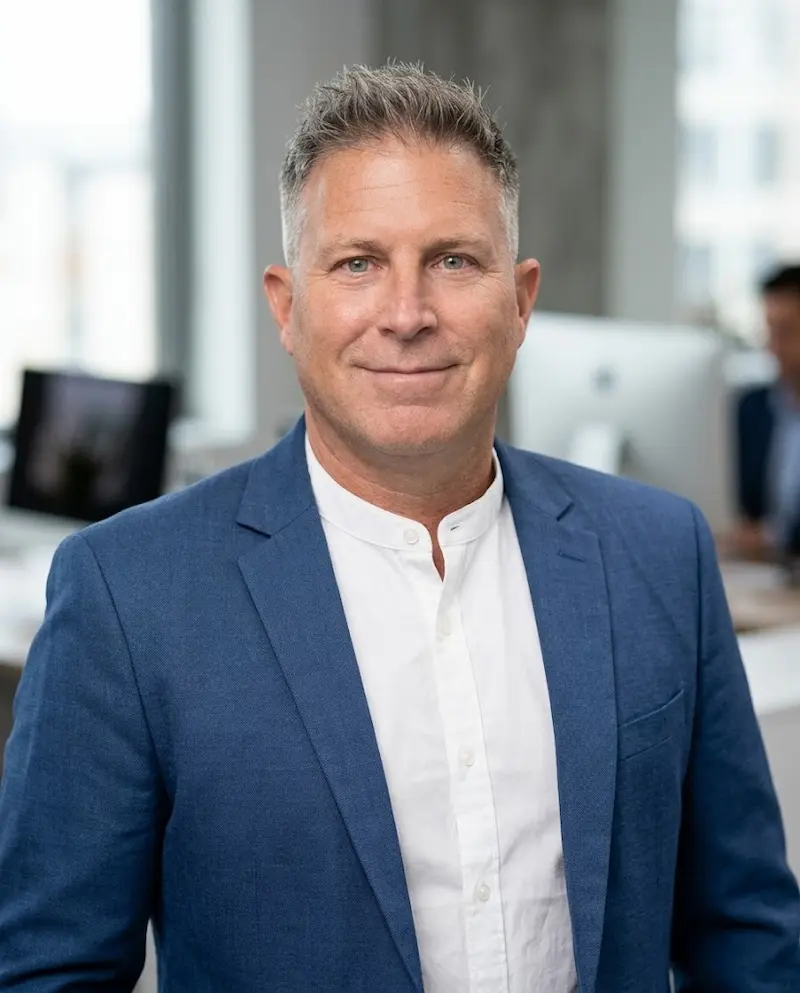
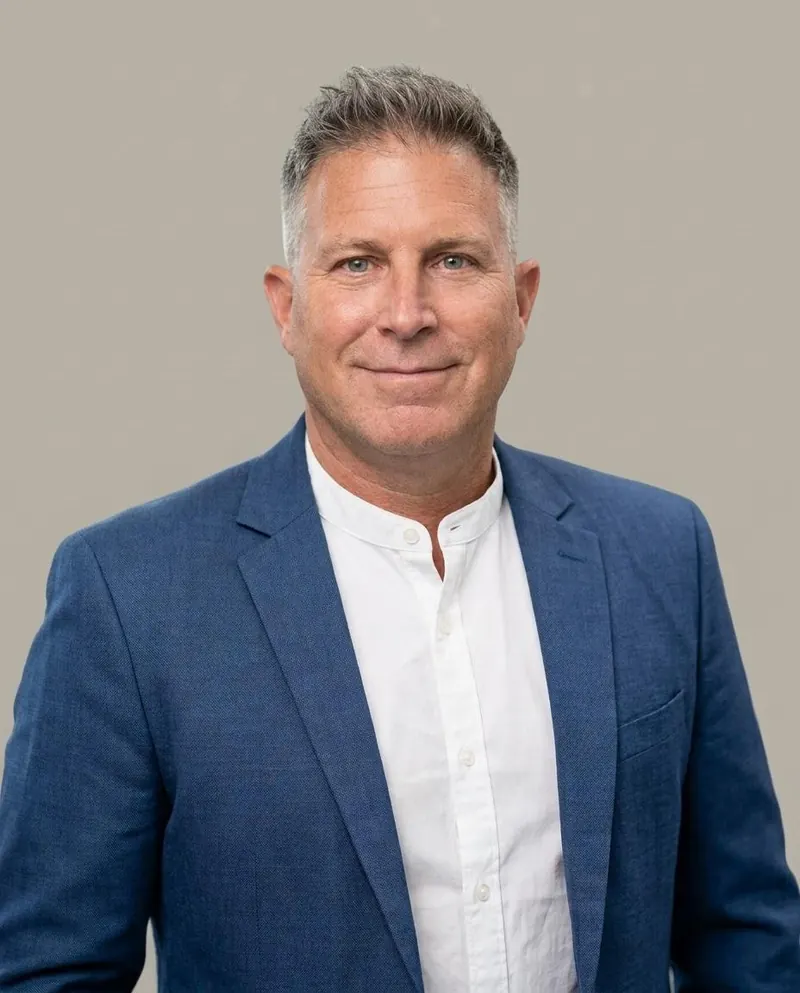
v: 28 higiene de medios: retrato y QR optimizados, alts y metadatos + arreglos de idioma y menú

diff --git a/language.js b/language.js
@@ -27,10 +27,25 @@
     ["Navegación principal", "Navegació principal", "Main navigation"],
     ["Filtrar proyectos", "Filtra els projectes", "Filter projects"],
     ["Datos de contacto", "Dades de contacte", "Contact details"],
-    ["Presentación", "Presentació", "Introduction"],
+    ["Presentación", "Presentació", "Presentation"],
     ["Presentación · Gabriel Vidal Badia", "Presentació · Gabriel Vidal Badia", "Presentation · Gabriel Vidal Badia"],
     ["Presentación de Gabriel Vidal Badia · Portfolio personal.", "Presentació de Gabriel Vidal Badia · Portafolis personal.", "Presentation by Gabriel Vidal Badia · Personal portfolio."],
     ["Presentación en vivo", "Presentació en directe", "Live presentation"],
+    ["Noticias IA", "Notícies IA", "AI News"],
+    ["Noticias IA · Gabriel Vidal Badia", "Notícies IA · Gabriel Vidal Badia", "AI News · Gabriel Vidal Badia"],
+    ["Noticias de inteligencia artificial seleccionadas por Gabriel Vidal Badia.", "Notícies d'intel·ligència artificial seleccionades per Gabriel Vidal Badia.", "Artificial intelligence news selected by Gabriel Vidal Badia."],
+    ["Actualizado a diario", "Actualitzat cada dia", "Updated daily"],
+    ["Noticias de", "Notícies sobre", "News about"],
+    ["Inteligencia Artificial", "Intel·ligència Artificial", "Artificial Intelligence"],
+    ["Los nombres que más están moviendo el sector de la IA esta semana, ordenados por momentum. Fuente: GNews.", "Els noms que més estan movent el sector de la IA esta setmana, ordenats per impuls. Font: GNews.", "The names moving the AI sector the most this week, ranked by momentum. Source: GNews."],
+    ["¿Quieres ver", "Vols veure", "Want to see"],
+    ["mi perfil completo", "el meu perfil complet", "my full profile"],
+    ["Vuelve al portfolio para ver formación, experiencia y proyectos.", "Torna al portafolis per veure formació, experiència i projectes.", "Go back to the portfolio to see my education, experience and projects."],
+    ["Escalando en roca: la afición que me enseñó a resolver problemas paso a paso.", "Escalant en roca: l'afició que em va ensenyar a resoldre problemes pas a pas.", "Rock climbing: the hobby that taught me to solve problems step by step."],
+    ["Gabriel escalando una vía en roca caliza, con el arnés cargado de cintas exprés y el cielo azul de fondo", "Gabriel escalant una via en roca calcària, amb l'arnés carregat de cintes exprés i el cel blau de fons", "Gabriel climbing a limestone route, harness loaded with quickdraws, with a blue sky behind him"],
+    ["Gabriel Vidal Badia sonriendo, con americana azul y camisa blanca, sobre fondo gris claro", "Gabriel Vidal Badia somrient, amb americana blava i camisa blanca, sobre fons gris clar", "Gabriel Vidal Badia smiling, wearing a blue blazer and a white shirt, against a light gray background"],
+    ["Código QR que lleva a este portfolio", "Codi QR que du a aquest portafolis", "QR code that leads to this portfolio"],
+    ["📱 Llévate la web al móvil", "📱 Emporta't la web al mòbil", "📱 Take the site on your phone"],
     ["Escanea y entra en", "Escaneja i entra al", "Scan to open"],
     ["mi portfolio", "meu portafolis", "my portfolio"],
     ["Apunta con la cámara del móvil al código QR. Te llevará directo a la web personal con la que estoy construyendo mi marca como desarrollador.", "Apunta amb la càmera del mòbil al codi QR. Et portarà directament al web personal amb què estic construint la meua marca com a desenvolupador.", "Point your phone camera at the QR code. It will take you straight to the personal website where I'm building my brand as a developer."],

diff --git a/script.js b/script.js
@@ -959,31 +959,52 @@ if (toTop) {
   const term = document.getElementById("typingTerminal");
   if (!term) return;
 
-  const lines = [
-    '<span class="term-prompt">$</span> while (<span class="term-var">no_llegue_a_la_cima</span>) {',
-    '  <span class="term-fn">resolver_problema</span>();',
-    '  <span class="term-fn">aprender</span>();',
-    '  <span class="term-fn">subir</span>();',
-    '}',
-    '<span class="term-ok">✓ Programa ejecutado. Subiendo...</span>',
-    '<span class="term-prompt">$</span> <span class="term-cursor">▊</span>'
-  ];
+  /* Identificadores y mensaje del "programa" en cada idioma.
+     "while" es palabra reservada del lenguaje, así que no se traduce. */
+  const code = {
+    es:  { cond: "no_llegue_a_la_cima", solve: "resolver_problema", learn: "aprender", climb: "subir",  ok: "✓ Programa ejecutado. Subiendo..." },
+    val: { cond: "no_arribe_al_cim",    solve: "resoldre_problema", learn: "aprendre", climb: "pujar",  ok: "✓ Programa executat. Pujant..." },
+    en:  { cond: "not_at_the_summit",   solve: "solve_problem",     learn: "learn",    climb: "climb",  ok: "✓ Program executed. Climbing..." }
+  };
+
+  const currentLang = () => {
+    const l = document.documentElement.lang;
+    return l === "en" ? "en" : l === "ca-valencia" ? "val" : "es";
+  };
+
+  const buildLines = (lang) => {
+    const t = code[lang] || code.es;
+    return [
+      '<span class="term-prompt">$</span> while (<span class="term-var">' + t.cond + '</span>) {',
+      '  <span class="term-fn">' + t.solve + '</span>();',
+      '  <span class="term-fn">' + t.learn + '</span>();',
+      '  <span class="term-fn">' + t.climb + '</span>();',
+      '}',
+      '<span class="term-ok">' + t.ok + '</span>',
+      '<span class="term-prompt">$</span> <span class="term-cursor">▊</span>'
+    ];
+  };
 
   const reduceMotion = window.matchMedia("(prefers-reduced-motion: reduce)").matches;
-  term.innerHTML = lines.join("\n");
-  if (reduceMotion) return;
+  let timer = null;
+  let started = false;
+  let textNodes = [];
 
-  const walker = document.createTreeWalker(term, NodeFilter.SHOW_TEXT);
-  const textNodes = [];
-  let node;
-  while ((node = walker.nextNode())) {
-    textNodes.push({ node, text: node.textContent });
-    node.textContent = "";
-  }
+  const render = (lang) => { term.innerHTML = buildLines(lang).join("\n"); };
+
+  /* Prepara los nodos de texto vacíos para ir escribiéndolos letra a letra */
+  const prepareTyping = () => {
+    const walker = document.createTreeWalker(term, NodeFilter.SHOW_TEXT);
+    textNodes = [];
+    let node;
+    while ((node = walker.nextNode())) {
+      textNodes.push({ node, text: node.textContent });
+      node.textContent = "";
+    }
+  };
 
   let nodeIndex = 0;
   let charIndex = 0;
-  let started = false;
 
   function type() {
     if (nodeIndex >= textNodes.length) return;
@@ -994,7 +1015,7 @@ if (toTop) {
       nodeIndex++;
       charIndex = 0;
     }
-    window.setTimeout(type, 32);
+    timer = window.setTimeout(type, 32);
   }
 
   function start() {
@@ -1002,6 +1023,18 @@ if (toTop) {
     started = true;
     type();
   }
+
+  render(currentLang());
+  if (!reduceMotion) prepareTyping();
+
+  /* Al cambiar de idioma se muestra el programa ya completo en el nuevo idioma */
+  document.addEventListener("portfolio:languagechange", (event) => {
+    window.clearTimeout(timer);
+    started = true;
+    render((event.detail && event.detail.language) || currentLang());
+  });
+
+  if (reduceMotion) return;
 
   if ("IntersectionObserver" in window) {
     const observer = new IntersectionObserver((entries) => {

diff --git a/index.html b/index.html
@@ -27,9 +27,9 @@
   <meta property="og:type" content="profile" />
   <meta property="og:title" content="Gabriel Vidal Badia · Desarrollador" />
   <meta property="og:description" content="Estudiante de 1º DAM. Técnico Superior en Sistemas de Telecomunicación, CFGM SMR y certificaciones Cisco." />
-  <meta property="og:url" content="https://gabrielvidal.dev/" />
+  <meta property="og:url" content="https://gabi37smx.github.io/mi-web/" />
   <meta property="og:locale" content="es_ES" />
-  <meta property="og:image" content="https://gabrielvidal.dev/image/gabriel.webp" />
+  <meta property="og:image" content="https://gabi37smx.github.io/mi-web/image/gabriel.webp" />
 
   <meta name="twitter:card" content="summary_large_image" />
   <meta name="twitter:title" content="Gabriel Vidal Badia · Desarrollador" />
@@ -42,8 +42,8 @@
     "name": "Gabriel Vidal Badia",
     "jobTitle": "Desarrollador en formación",
     "description": "Estudiante de 1º DAM en el IES Simarro. Técnico Superior en Sistemas de Telecomunicación e Informáticos, CFGM en Sistemas Microinformáticos y Redes, con certificaciones Cisco en redes y ciberseguridad.",
-    "url": "https://gabrielvidal.dev",
-    "image": "https://gabrielvidal.dev/image/gabriel.webp",
+    "url": "https://gabi37smx.github.io/mi-web/",
+    "image": "https://gabi37smx.github.io/mi-web/image/gabriel.webp",
     "address": {
       "@type": "PostalAddress",
       "addressLocality": "Xàtiva",
@@ -81,7 +81,6 @@
   <link rel="preconnect" href="https://fonts.gstatic.com" crossorigin />
   <link href="https://fonts.googleapis.com/css2?family=Space+Grotesk:wght@400;700&family=Inter:wght@400;600&family=JetBrains+Mono:wght@400&display=swap" rel="stylesheet" />
 
-  <link rel="preload" as="image" href="image/gabriel.webp" type="image/webp" />
   <link rel="stylesheet" href="style.css" />
 </head>
 <body>
@@ -200,7 +199,7 @@
 
         <div class="about-layout">
           <figure class="about-photo reveal">
-            <img src="image/gabriel.webp" alt="Retrato de Gabriel Vidal Badia" width="800" height="993" loading="lazy" />
+            <img src="image/gabriel.webp" alt="Gabriel Vidal Badia sonriendo, con americana azul y camisa blanca, sobre fondo gris claro" width="800" height="993" loading="lazy" />
           </figure>
 
           <div class="about-text reveal">
@@ -531,6 +530,11 @@
           </article>
         </div>
 
+        <figure class="climb-photo reveal">
+          <img src="image/escalada-roca.webp" alt="Gabriel escalando una vía en roca caliza, con el arnés cargado de cintas exprés y el cielo azul de fondo" width="700" height="1051" loading="lazy" />
+          <figcaption>Escalando en roca: la afición que me enseñó a resolver problemas paso a paso.</figcaption>
+        </figure>
+
         <div class="weather-widget reveal" id="weatherWidget" data-lat="38.9886" data-lon="-0.5183" data-city="Xàtiva">
           <form class="weather-widget__search" id="weatherSearch" role="search">
             <label for="weatherCityInput">Ciudad</label>
@@ -640,7 +644,7 @@
 
         <div class="footer-qr">
           <p class="footer-qr__label">📱 Llévate la web al móvil</p>
-          <img src="image/qr-web.png" alt="Código QR con la URL de este portfolio" width="120" height="120" loading="lazy" />
+          <img src="image/qr-web.png" alt="Código QR que lleva a este portfolio" width="120" height="120" loading="lazy" />
         </div>
       </div>
     </div>

diff --git a/style.css b/style.css
@@ -167,8 +167,10 @@ h1, h2, h3, h4 {
 }
 
 .nav-link:hover { color: var(--text); background: var(--panel-soft); }
-.nav-link[aria-current="true"] { color: var(--text); font-weight: 700; }
-.nav-link[aria-current="true"]::after {
+.nav-link[aria-current="true"],
+.nav-link[aria-current="page"]:not(.nav-cta) { color: var(--text); font-weight: 700; }
+.nav-link[aria-current="true"]::after,
+.nav-link[aria-current="page"]:not(.nav-cta)::after {
   content: ""; position: absolute; left: 50%; bottom: 2px; transform: translateX(-50%);
   width: 18px; height: 3px; border-radius: 0; background: var(--accent);
 }
@@ -1893,4 +1895,15 @@ html, body, a, button, .btn, .nav-link, .social-link, .to-top, .climb-hold, .car
   .btn-primary[href="contacto.html"]:focus-visible,
   .cta-inner .btn-primary[href="contacto.html"]:hover,
   .cta-inner .btn-primary[href="contacto.html"]:focus-visible { transform: none; }
+}
+
+/* Foto propia de escalada en "Me gusta" */
+.climb-photo { margin: 2.5rem auto; max-width: 340px; }
+.climb-photo img {
+  display: block; width: 100%; height: auto;
+  border: 2px solid var(--text); box-shadow: 4px 4px 0 var(--text);
+}
+.climb-photo figcaption {
+  margin-top: .9rem; font-family: var(--mono); font-size: .85rem;
+  color: var(--muted); text-align: center;
 }

diff --git a/contacto.html b/contacto.html
@@ -225,7 +225,7 @@
 
             <div class="footer-qr">
               <p class="footer-qr__label">📱 Llévate la web al móvil</p>
-              <img src="image/qr-web.png" alt="Código QR con la URL de este portfolio" width="120" height="120" loading="lazy" />
+              <img src="image/qr-web.png" alt="Código QR que lleva a este portfolio" width="120" height="120" loading="lazy" />
             </div>
           </aside>
         </div>
